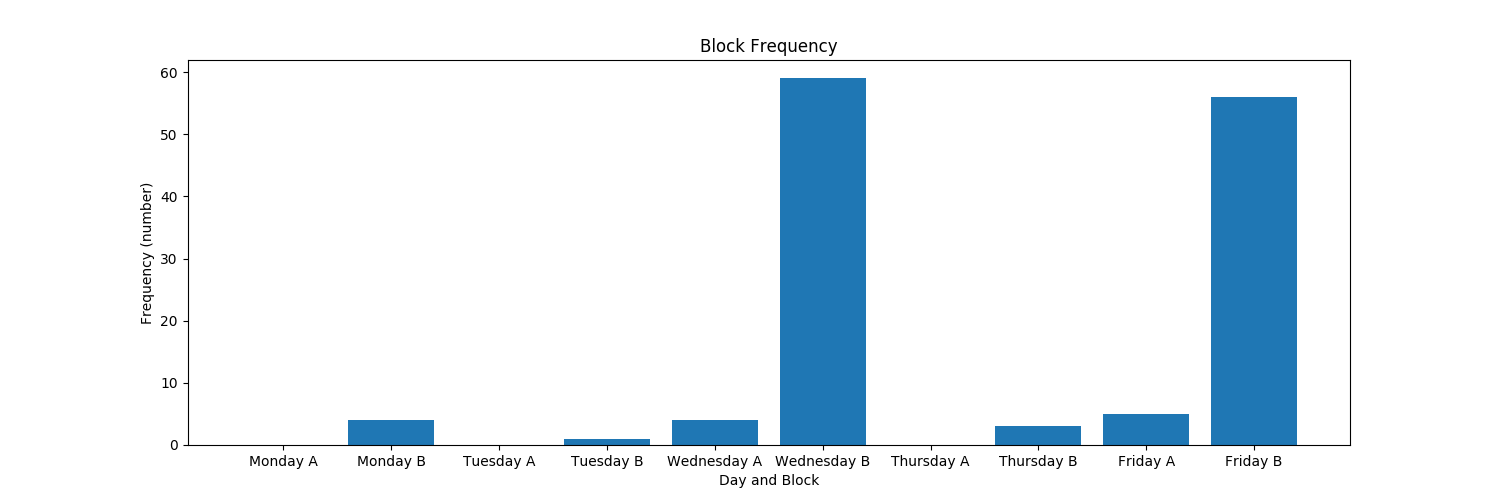
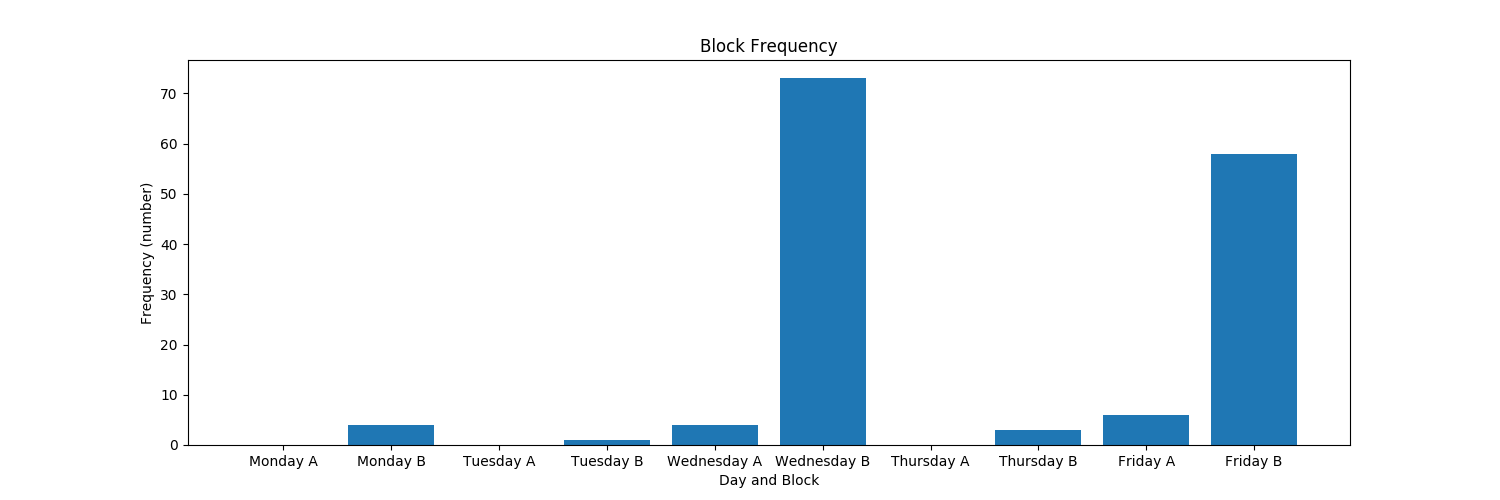
add refresh buttons for heatmap and history

diff --git a/cube.py b/cube.py
@@ -333,8 +333,6 @@ def get_club_result() -> list:
                 return result
         d = api_call("ion", d["next"], False)
 
-# TODO: some sort of legit method of updating these beyond func calls
-# TODO: Admin page to do that: prob just function_name (description): [button to run function]
 # TODO: take into account existing club.json file (i.e cuts down on API calls)
 def save_club_history() -> dict:
     """ Returns the ION page describing the club. """
@@ -376,7 +374,7 @@ def graph_blocks(s) -> None:
     plt.title("Block Frequency")
     plt.xlabel("Day and Block")
     plt.ylabel("Frequency (number)")
-    plt.savefig("static/img/blocks{}.png".format(s))
+    plt.savefig("src/img/blocks{}.png".format(s))
 
 def graph_capacity() -> None:
     """ Graphs actual over capacity over time. """
@@ -386,6 +384,7 @@ def graph_capacity() -> None:
     regr = linear_model.LinearRegression()
     regr.fit(xp, y)
     yp = regr.predict(xp)
+    print(regr.coef_)
 
     fig, ax = plt.subplots()
     ax.plot(x, y)
@@ -394,7 +393,7 @@ def graph_capacity() -> None:
     plt.title("Rubik's Cube Club Attendance Over Time")
     plt.xlabel("Time")
     plt.ylabel("Percentage of People Attending (%)")
-    plt.savefig("static/img/capacity.png")
+    plt.savefig("src/img/capacity.png")
 
 def get_signups() -> list:
     """ Returns all of the user's 8th pd signups at a specific club. """
@@ -643,4 +642,4 @@ def graph_vists():
     keys = [day for day in vists["/"]]
     days = pd.to_datetime(keys)
     calmap.yearplot(pd.Series([vists["/"][k] for k in keys], index=days), year=get_year())
-    plt.savefig("static/img/heatmap.png", bbox_inches="tight") #pad_inches=0)
+    plt.savefig("src/img/heatmap.png", bbox_inches="tight") #pad_inches=0)

diff --git a/app.py b/app.py
@@ -237,12 +237,26 @@ def profile() -> dict:
 
         if "fb" in flask.request.form:
             cube.get_pfps(cube.CONFIG["officers"])
+            alert("Updated the profile pictures!")
 
         if "comps" in flask.request.form:
             cube.get_comps()
+            alert("Updated the competitions!")
 
         if "records" in flask.request.form:
             cube.update_records()
+            alert("Updated the records!")
+
+        if "history" in flask.request.form:
+            cube.save_club_history()
+            cube.graph_capacity()
+            cube.graph_blocks("by_x")
+            cube.graph_blocks("by_y")
+            alert("Updated the club history!")
+
+        if "heatmap" in flask.request.form:
+            cube.graph_vists()
+            alert("Updated the heatmap!")
 
     return rtn
 
